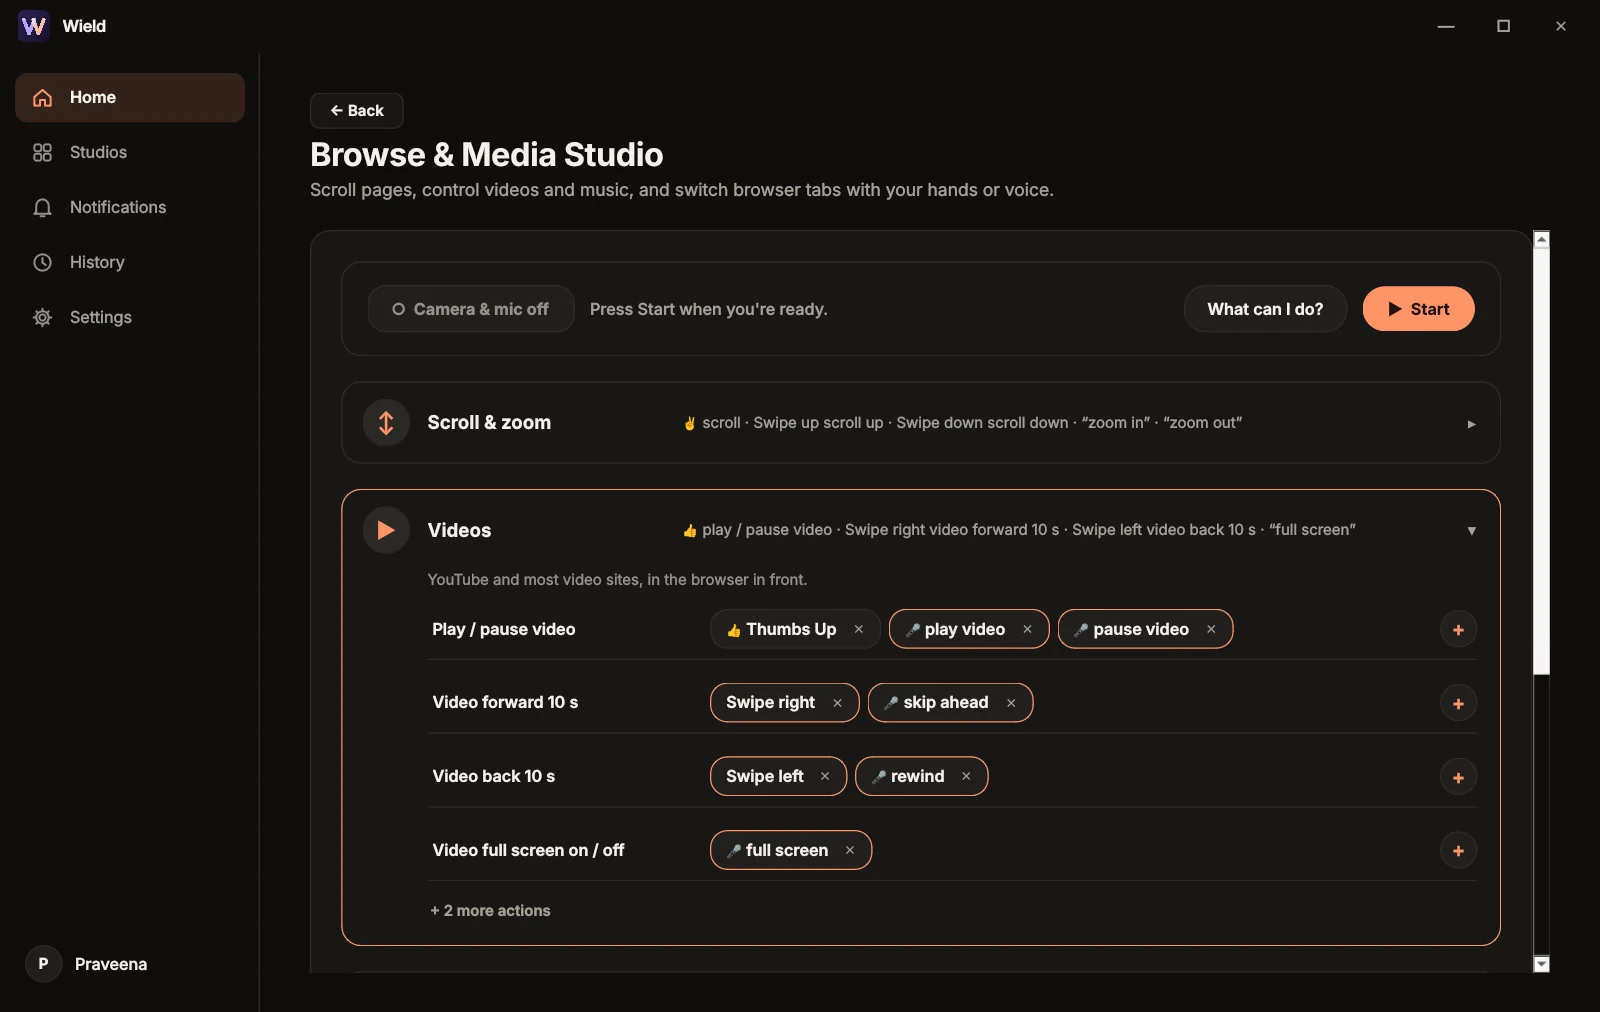
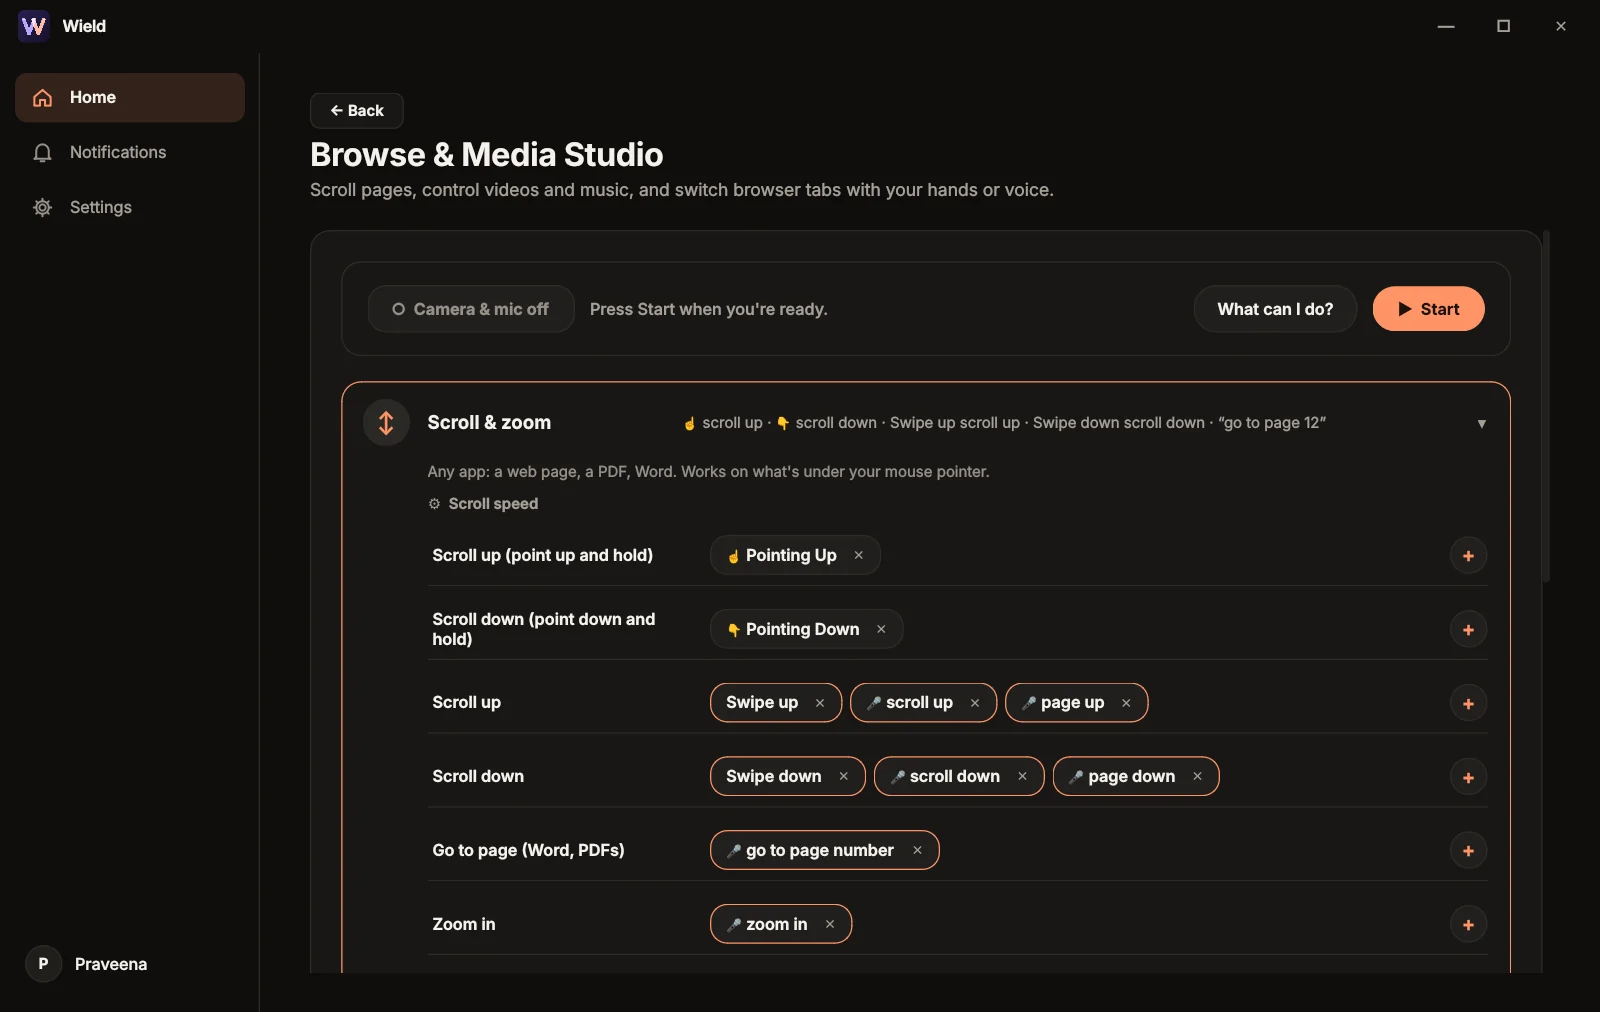
Website for 1.4; Home's Recently list no longer overlaps
- "New in 1.4": the six hand signs (with a screenshot of the Home
  card), point to scroll, "go to page 12", use it in any app, the
  green dot, softer sounds
- Browse & Media screenshot and text show pointing to scroll; the
  baking story points down instead of the peace sign; the features
  tile is "Six simple hand signs"; version 1.4
- Home: the old "Nothing yet." line is hidden at once when activity
  appears, so the two never show on top of each other

Claude-Session: https://claude.ai/code/session_01SE1MowNu8C85jTvvwdbCoi

diff --git a/website/index.html b/website/index.html
@@ -345,7 +345,7 @@
 
 <header class="hero" id="top">
   <div class="wrap hero-grid">
-    <span class="hello"><span class="wave" aria-hidden="true">👋</span> Free for Windows · version 1.3</span>
+    <span class="hello"><span class="wave" aria-hidden="true">👋</span> Free for Windows · version 1.4</span>
     <h1>Control your computer with a <span class="squiggle">wave<svg viewBox="0 0 200 20" preserveAspectRatio="none" aria-hidden="true"><path d="M3 14 C 30 4, 50 4, 70 12 S 115 20, 135 10 S 180 4, 197 10"/></svg></span>.</h1>
     <p class="lede">Wield turns your webcam and mic into a remote control. Show a gesture, draw a move in the air, or just say “Hey Wield, next slide”. You choose what does what.</p>
     <div class="cta">
@@ -374,10 +374,10 @@
 
     <div class="bento">
       <div class="tile t-gest">
-        <span class="big" aria-hidden="true">✌</span>
-        <h3>Your own gestures</h3>
-        <p>Thumbs up, peace and fist work out of the box. Record any other pose you can hold, in a few short takes.</p>
-        <div class="chips" aria-hidden="true"><span class="chip">👍 Thumbs up</span><span class="chip">✌ Peace</span><span class="chip">✊ Fist</span><span class="chip">+ yours</span></div>
+        <span class="big" aria-hidden="true">👍</span>
+        <h3>Six simple hand signs</h3>
+        <p>Thumbs up, point, a fist: six signs work out of the box and mean the same thing in every app. Or teach Wield any pose you like.</p>
+        <div class="chips" aria-hidden="true"><span class="chip">✋ Wake</span><span class="chip">👍 Go</span><span class="chip">👎 Back</span><span class="chip">☝ Scroll</span><span class="chip">✊ Stop</span><span class="chip">+ yours</span></div>
       </div>
       <div class="tile t-voice">
         <span class="big" aria-hidden="true">🎤</span>
@@ -396,7 +396,7 @@
       </div>
       <div class="tile t-private">
         <h3>Private, always</h3>
-        <p>The camera and mic stay off until you press Start or turn on hands-free mode. Video and speech are processed on your computer and never recorded.</p>
+        <p>The camera and mic stay off until you press Start or turn on background mode. Video and speech are handled on your computer and never recorded.</p>
       </div>
       <div class="tile t-studio">
         <h3>Studios for everything</h3>
@@ -432,26 +432,26 @@
         <h3>Scroll, pause and skip without touching anything</h3>
         <p>YouTube, Spotify, articles, PDFs: control them with a gesture or a word, from across the room.</p>
         <ul class="ticks">
-          <li>👍 pauses a video, a swipe jumps 10 seconds, ✌ and a move of your hand scrolls.</li>
+          <li>👍 pauses a video, a swipe jumps 10 seconds, ☝ or 👇 scrolls while you point.</li>
           <li>“Hey Wield, louder”, “next track”, “close tab”, “show desktop”.</li>
           <li>Each section opens on its own, so it never feels cluttered.</li>
         </ul>
       </div>
-      <div class="frame tilt-l"><img src="images/browse-media-studio.webp" width="1600" height="1012" loading="lazy" alt="Browse &amp; Media Studio with the Videos section open: Thumbs Up plays and pauses, swipes jump 10 seconds, and 'full screen' is a voice command."></div>
+      <div class="frame tilt-l"><img src="images/browse-media-studio.webp" width="1600" height="1012" loading="lazy" alt="Browse &amp; Media Studio with the Scroll section open: point up or down and hold to scroll, swipes, and voice commands like 'go to page'."></div>
     </div>
     <div class="row">
       <div class="text">
-        <p class="kicker">New in 1.3</p>
-        <h3>Wave to wake it, in any app</h3>
-        <p>Turn on <strong>hands-free mode</strong> and Wield waits quietly in the background. Show ✋ or say “Hey Wield, wake up”, and your gestures work wherever you are.</p>
+        <p class="kicker">New in 1.4</p>
+        <h3>Six hand signs. That's all you learn.</h3>
+        <p>Each sign means the same kind of thing in every app, so there's no list to memorise. For anything else, just say it.</p>
         <ul class="ticks">
-          <li><span><strong>Hand mouse</strong>: “Hey Wield, mouse mode”, then point to move and pinch to click.</span></li>
-          <li><span><strong>“Hey Wield, help”</strong> shows every gesture and phrase on screen.</span></li>
-          <li><span>It goes back to sleep after a while, so everyday moves don't set anything off.</span></li>
-          <li><span>A proper installer with a desktop icon, and a short tour after every update.</span></li>
+          <li><span><strong>Point to scroll</strong>: ☝ point up or 👇 down and hold.</span></li>
+          <li><span><strong>“Hey Wield, go to page 12”</strong> in Word and PDFs.</span></li>
+          <li><span><strong>Use it in any app</strong>: show ✋ or say “Hey Wield, wake up”, no need to open Wield first.</span></li>
+          <li><span>A green dot on Wield's icon shows when the camera or mic is on. Softer sounds, simpler words, and themes that change instantly.</span></li>
         </ul>
       </div>
-      <div><img class="sheet-shot" src="images/what-can-i-do.webp" width="1268" height="831" loading="lazy" alt="The 'What can I do?' sheet shown over any app, listing gestures and phrases for scrolling, videos, music, tabs, the hand mouse and windows."></div>
+      <div><img class="sheet-shot" src="images/hand-signs.webp" width="1236" height="382" loading="lazy" alt="Wield's six hand signs: open hand wakes Wield, thumbs up goes or plays, thumbs down goes back, swipes go forward or back, pointing up or down scrolls, and a held fist stops or closes."></div>
     </div>
     <div class="row flip">
       <div class="text">
@@ -498,7 +498,7 @@
         <li><span class="do" aria-hidden="true">✋</span><div><span class="time">2:00 PM · WAKE IT</span><h4>Open your palm at the laptop</h4><p>Wield wakes up and uses Browse &amp; Media's gestures, because your browser is in front. No clicking, no studio to open.</p></div></li>
         <li><span class="do" aria-hidden="true">👍</span><div><span class="time">2:04 PM · PAUSE</span><h4>Thumbs up while you knead</h4><p>The video pauses. Thumbs up again when you're ready to carry on.</p></div></li>
         <li><span class="do" aria-hidden="true">👈</span><div><span class="time">2:09 PM · REWIND</span><h4>Swipe left: “how much butter?”</h4><p>The video jumps back 10 seconds so you can hear it again.</p></div></li>
-        <li><span class="do" aria-hidden="true">✌</span><div><span class="time">2:12 PM · SCROLL</span><h4>Peace sign, then move your hand down</h4><p>Scroll down the description to the written recipe. Move further for faster.</p></div></li>
+        <li><span class="do" aria-hidden="true">👇</span><div><span class="time">2:12 PM · SCROLL</span><h4>Point down and hold</h4><p>The page scrolls down to the written recipe. Hold longer and it goes faster.</p></div></li>
         <li><span class="do" aria-hidden="true">🎤</span><div><span class="time">2:15 PM · VOLUME</span><h4>The mixer is loud</h4><p>Just ask. And when you're done, Wield goes back to sleep on its own, so stirring and waving don't set anything off.</p><span class="say"><b>Hey Wield,</b> louder</span></div></li>
       </ol>
     </div>
@@ -638,7 +638,7 @@
 
 <footer>
   <div class="wrap">
-    <span>Wield 1.3 · made by <a href="https://github.com/Praveena-Kiran">Praveena Kiran</a></span>
+    <span>Wield 1.4 · made by <a href="https://github.com/Praveena-Kiran">Praveena Kiran</a></span>
     <span><a href="https://github.com/Praveena-Kiran/Wield">Source code</a> · <a href="https://github.com/Praveena-Kiran/Wield/releases">All releases</a> · © 2026 Praveena Kiran</span>
   </div>
 </footer>

diff --git a/frontend/pages/home.py b/frontend/pages/home.py
@@ -487,6 +487,7 @@ class HomePage(QWidget):
         while self.recent_layout.count():
             w = self.recent_layout.takeAt(0).widget()
             if w:
+                w.hide()            # gone now, not when Qt gets round to deleting it
                 w.deleteLater()
 
         entries = sorted(ActivityLog().entries(), key=lambda e: e["_at"], reverse=True)[:3]
